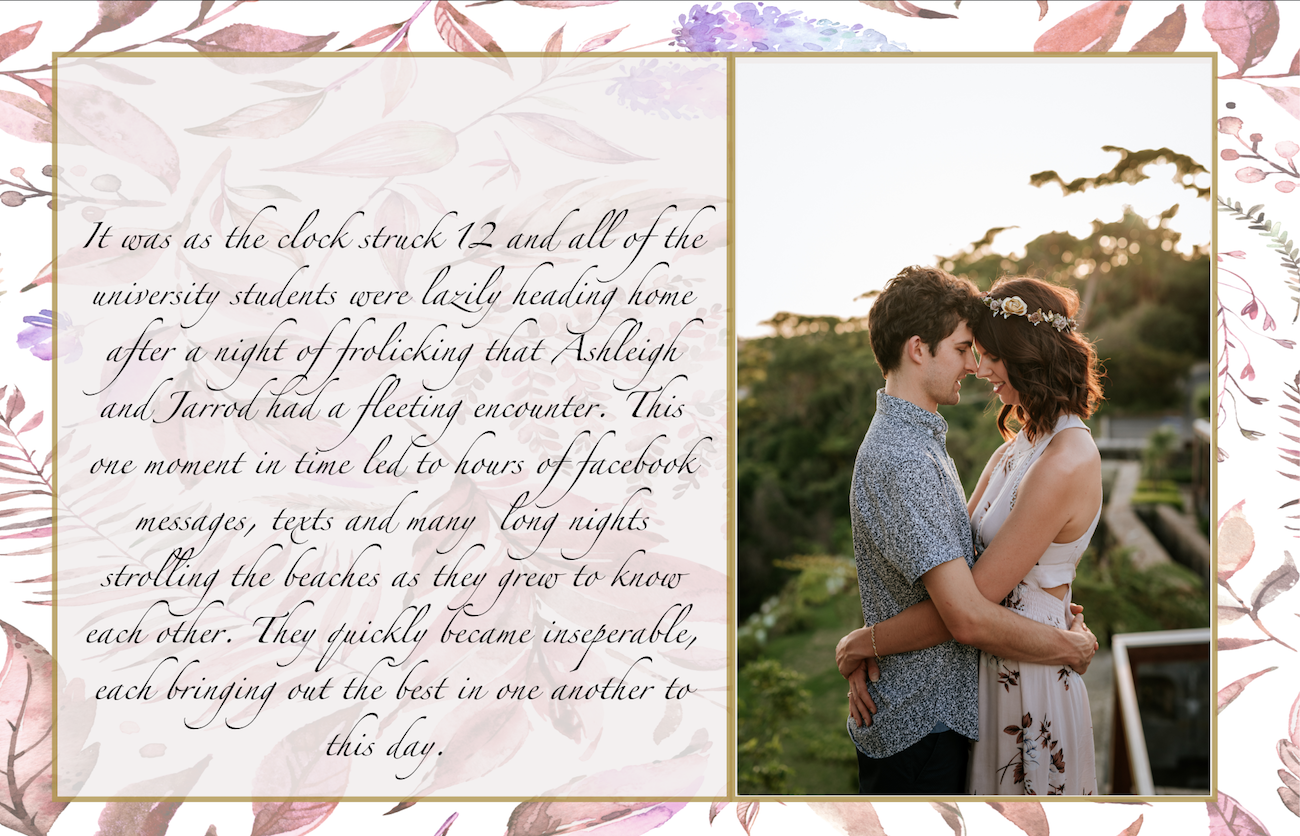
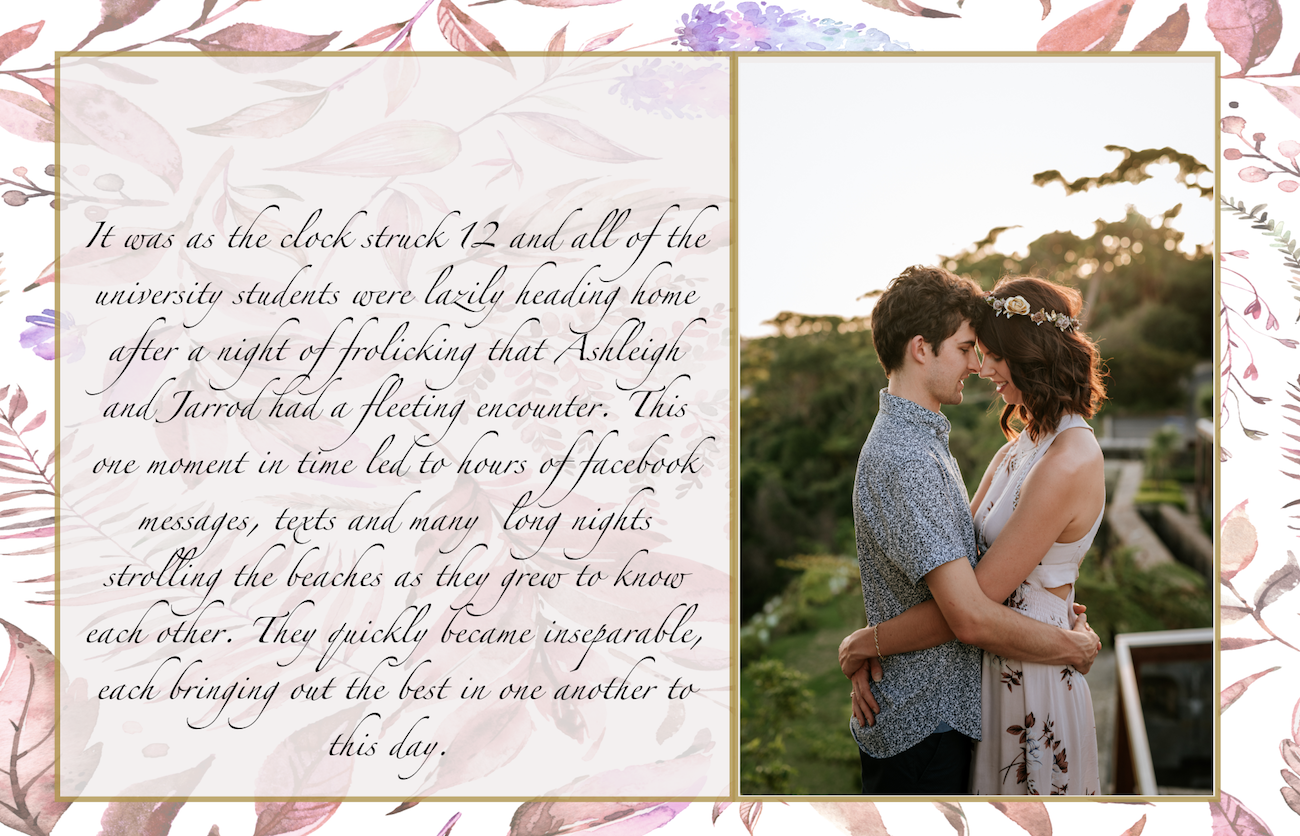
Final changes for next release of website. Fix "inseparable" in our story, fix boxes layout in gift registry, add links to accommodation, reduce size of image in "Jarrod's WIP" page

Changed region(s): [[0.0, 0.0, 1.0, 1.0], [0.1538, 0.9641, 0.2769, 1.0], [0.0615, 0.0, 0.1231, 0.0622]]

diff --git a/static/index.html b/static/index.html
@@ -88,6 +88,18 @@
                     </div>
                     <div class="item">
                         <img src="img/bg/backgroundObject4-2.png" width="1300" height="836">
+                        <form action="https://www.stayz.com.au/accommodation/nsw/southern-highlands/">
+                            <input id = "stayzAccomButton" type="submit" value="" />
+                        </form>
+                        <form action="https://www.holidayrentalspecialists.com.au/accommodation/region/southern-highlands">
+                            <input id = "holidayRentalSpecialistsButton" type="submit" value="" />
+                        </form>
+                        <form action="https://berrimamotel.com.au/">
+                            <input id = "berrimaBakehouseButton" type="submit" value="" />
+                        </form>
+                        <form action="https://www.gibraltarbowral.com.au/">
+                            <input id = "gibraltarHotelButton" type="submit" value="" />
+                        </form>
                     </div>
                     <div class="item">
                         <img src="img/bg/backgroundObject4-3.png" width="1300" height="836">
@@ -106,13 +118,6 @@
                         <li data-target="#about-berrima" data-slide-to="3"></li>
                     </ol>
                 </div>
-            </section>
-
-            <section id="registry" data-bg="img/bg/backgroundObject5.png">
-                <h1 class="registry">Gift Registry</h1>
-            </section>
-
-            <section id="add-to-our-story" data-bg="img/bg/backgroundObject7.png">
             </section>
 
             <section id="rsvp" onclick="ClickRSVPSection()">
@@ -215,15 +220,21 @@
                 </div>
             </section>
 
+            <section id="registry" data-bg="img/bg/backgroundObject5.png">
+                <h1 class="registry">Gift Registry</h1>
+            </section>
+
+            <section id="add-to-our-story" data-bg="img/bg/backgroundObject7.png">
+            </section>
+
             <nav id="navigation" data-717="position:absolute;top:717px; left:0;" data-718="position:fixed; top:0; left:0;">
                 <ul class="nav">
                     <li><a href="#our-story">Our Story</a></li>
                     <li><a href="#festivity-details">Festivity Details</a></li>
                     <li><a href="#about-berrima">About Berrima</a></li>
-                    <!--<li><a href="#gallery">Gallery</a></li>-->
+                    <li><a href="#rsvp">RSVP</a></li>
                     <li><a href="#registry">Gift Registry</a></li>
-                    <li><a href="#add-to-our-story">Add to our Story</a></li>
-                    <li class="last"><a href="#rsvp">RSVP</a></li>
+                    <li class="last"><a href="#add-to-our-story">Add to our Story</a></li>
                 </ul>
             </nav>
 

diff --git a/static/css/screen.css b/static/css/screen.css
@@ -489,15 +489,55 @@ h1.our-story {
   height: 836px;
 }
 
+#stayzAccomButton {
+  position: absolute;
+  left: 15%;
+  top: 49%;
+  height: 4%;
+  width: 15.5%;
+  border: none;
+  background: none;
+}
+
+#holidayRentalSpecialistsButton {
+  position: absolute;
+  left: 33.3%;
+  top: 49%;
+  height: 4%;
+  width: 18.5%;
+  border: none;
+  background: none;
+}
+
+#berrimaBakehouseButton {
+  position: absolute;
+  left: 14.5%;
+  top: 56%;
+  height: 8%;
+  width: 31.5%;
+  border: none;
+  background: none;
+}
+
+#gibraltarHotelButton {
+  position: absolute;
+  left: 14.5%;
+  top: 67%;
+  height: 8%;
+  width: 31.5%;
+  border: none;
+  background: none;
+}
+
 #walkingTourButton {
   position: absolute;
   font-family: "Limerence";
   font-size: 35px;
   color: rgb(185, 162, 94);
-  right: 15%;
-  top: 40%;
-  height: 15%;
-  width: 15%;
+  right: 18%;
+  top: 39%;
+  height: 14%;
+  width: 12%;
   border: none;
   background: none;
 }
@@ -514,8 +554,8 @@ h1.registry {
   font-size: 400%;
   font-weight: bold;
   color: rgb(185, 162, 94);
-  right: 7%;
-  top: 4%;
+  right: 6%;
+  top: 14%;
   height: 15%;
   width: 40%;
 }
@@ -680,12 +720,11 @@ h1.thanks {
   position: absolute;
   text-align: center;
   font-family: "Limerence";
-  font-size: 500%;
-  font-weight: bold;
-  color: rgb(185, 162, 94);
+  font-size: 800%;
+  color: rgb(163, 0, 50);
   left: 0%;
   right: 0%;
-  top: 40%;
+  top: 37%;
   height: 20%;
 }
 
